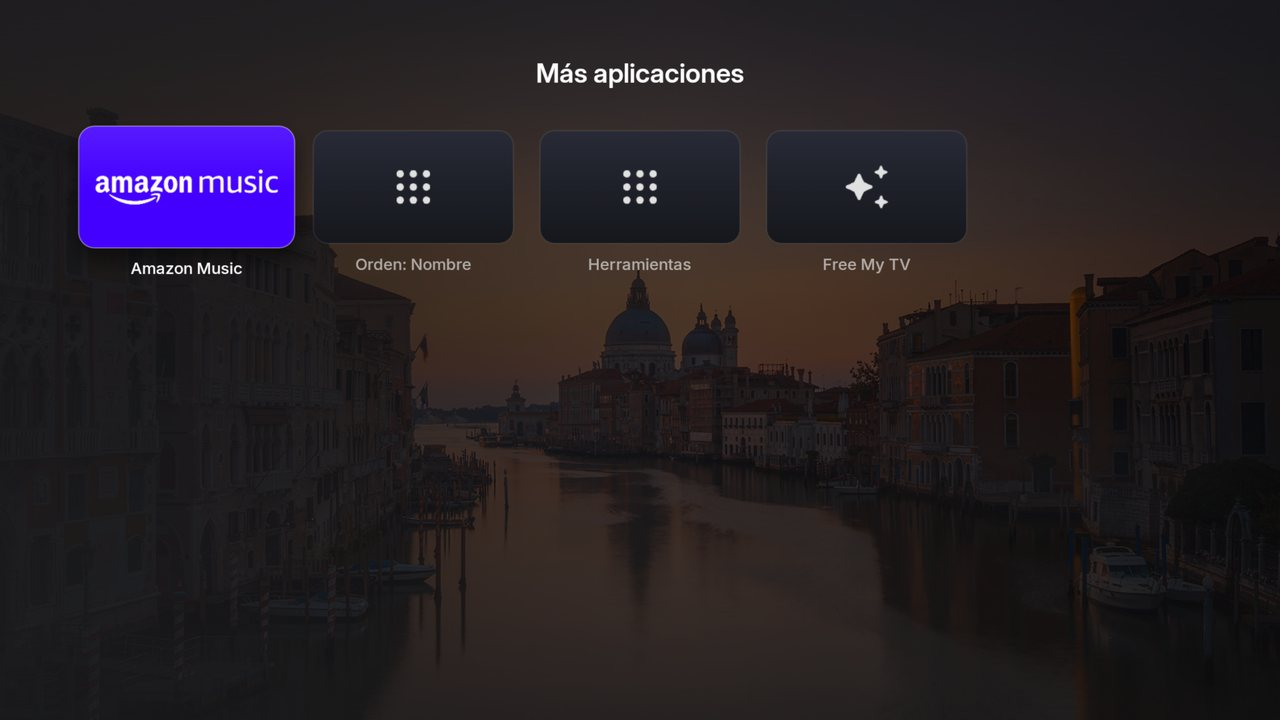
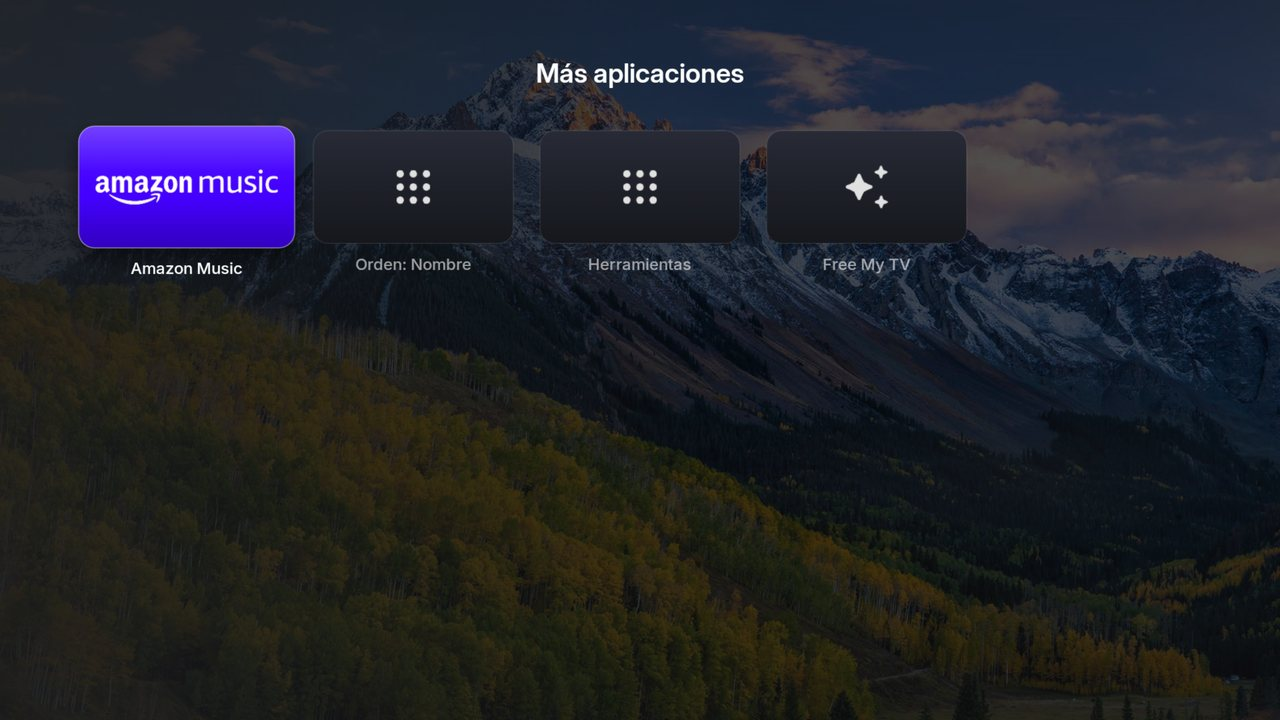
docs: new real screenshots (photo backgrounds, scrolled dock, Pac-Man last, drawer)

diff --git a/FIREOS6.md b/FIREOS6.md
@@ -7,7 +7,7 @@ del launcher son de sus autores originales; esta rama lo porta a Android 7.1 y a
 
 [English](#english) · [Español](#español)
 
-![Dock](docs/fireos6/dock.jpg)
+![Home](docs/fireos6/home.jpg)
 
 ---
 
@@ -122,9 +122,10 @@ del launcher son de sus autores originales; esta rama lo porta a Android 7.1 y a
 ## Screenshots · Capturas
 | | |
 |---|---|
-| ![Scrolled dock](docs/fireos6/dock-scrolled.jpg) | ![Day with photo](docs/fireos6/day-photo.jpg) |
-| ![Drawer](docs/fireos6/youtube-drawer.jpg) | ![More apps](docs/fireos6/more-apps.jpg) |
-| ![Aerial button](docs/fireos6/aerial-button.jpg) | |
+| ![Home](docs/fireos6/home.jpg) | ![Dock scrolled](docs/fireos6/dock-scrolled.jpg) |
+| ![Pinned last app](docs/fireos6/pacman-last.jpg) | ![More apps](docs/fireos6/more-apps.jpg) |
+| ![Drawer](docs/fireos6/youtube-drawer.jpg) | ![Drawer focus](docs/fireos6/youtube-drawer-focus.jpg) |
+| ![Aerial button](docs/fireos6/aerial-button.jpg) | ![Dock](docs/fireos6/dock.jpg) |
 
 Real captures from the Fire TV Stick 4K (1st gen) · Capturas reales del Fire TV Stick 4K (1.ª gen.).
 
